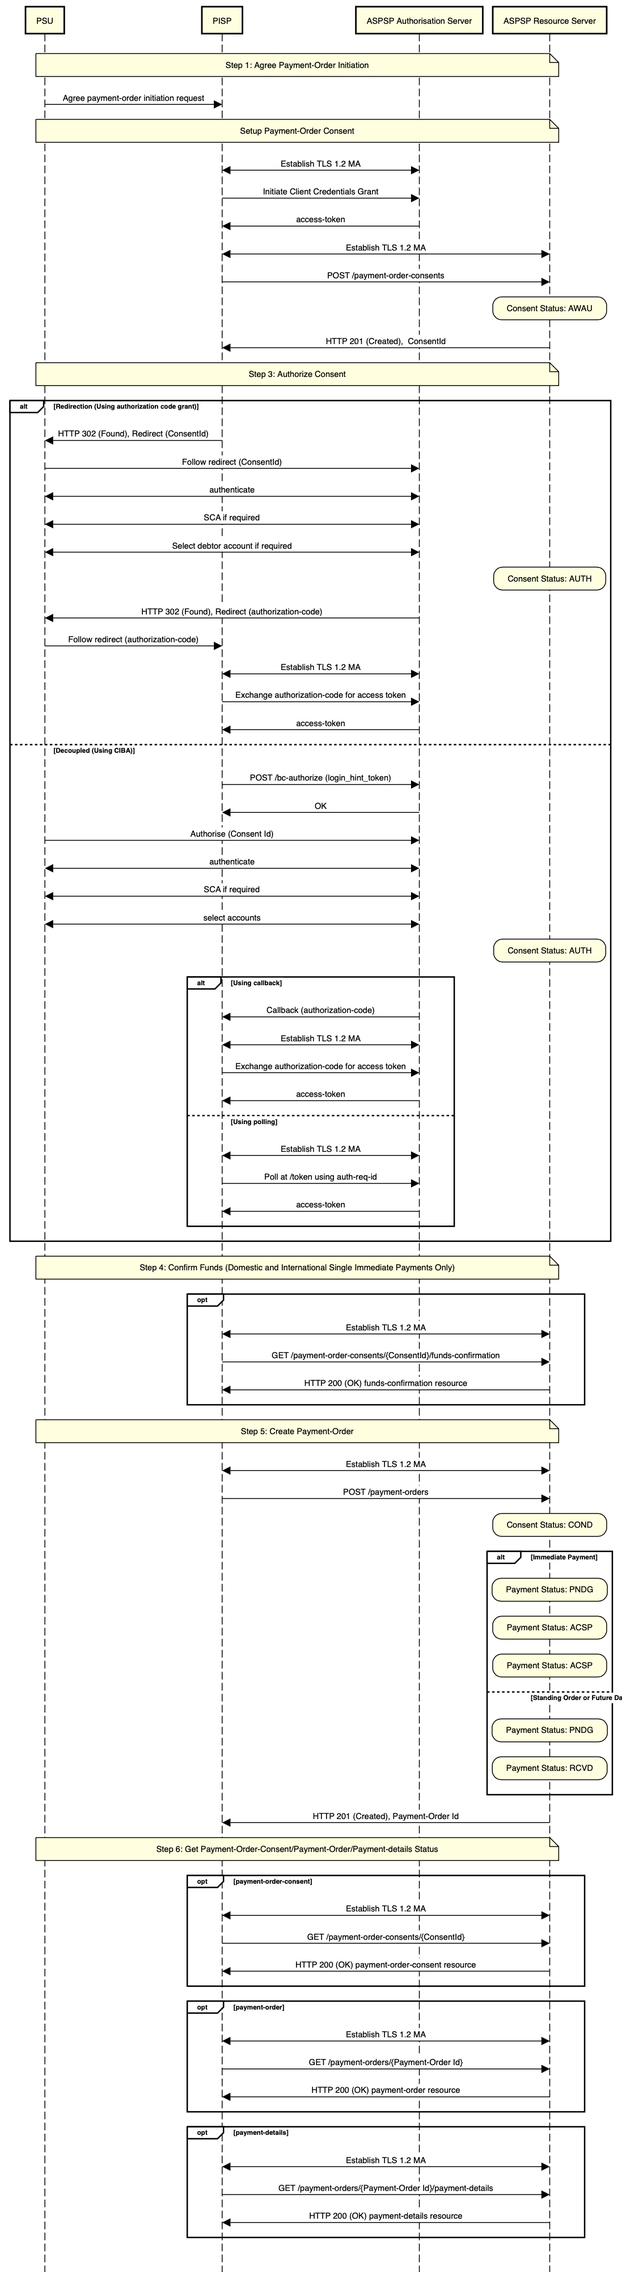
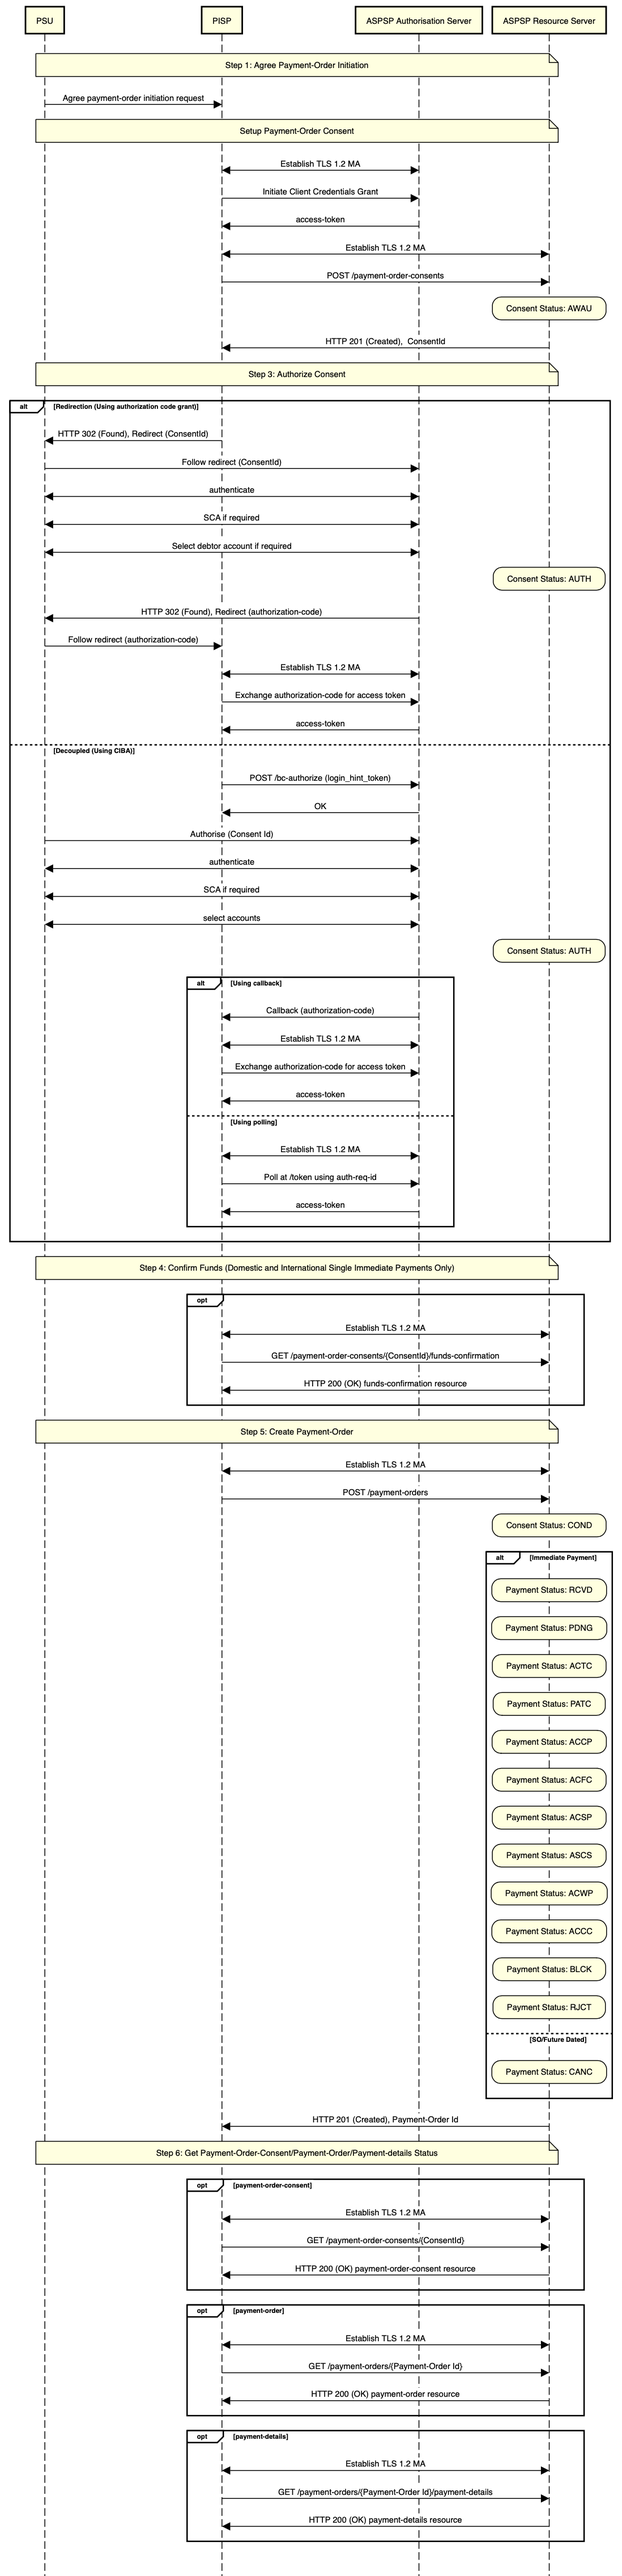
Fixed Payment-Details + Sequence diagram

Changed region(s): [[0.031, 0.0, 0.9918, 0.998], [0.062, 0.2807, 0.217, 0.3743], [0.7129, 0.3743, 0.7438, 0.4366]]

diff --git a/docs/v4.0-draft1/profiles/payment-initiation-api-profile.md b/docs/v4.0-draft1/profiles/payment-initiation-api-profile.md
@@ -53,7 +53,7 @@
     - [OBInternationalRefundAccount1](#obinternationalrefundaccount1)
       - [UML Diagram](#uml-diagram-5)
       - [Data Dictionary](#data-dictionary-6)
-    - [OBWritePaymentDetails1](#obwritepaymentdetails1)
+    - [OBWritePaymentDetailsResponse1](#OBWritePaymentDetailsResponse1)
       - [UML Diagram](#uml-diagram-6)
       - [Data Dictionary](#data-dictionary-7)
     - [OBSCASupportData1](#obscasupportdata1)
@@ -605,7 +605,7 @@ This section describes the OBDomesticRefundAccount1 class which is used in the r
 | Name |Occurrence |XPath |EnhancedDefinition |Class |Codes |Pattern |
 | --- |--- |--- |--- |--- |--- |--- |
 | OBDomesticRefundAccount1 |1..1 |OBDomesticRefundAccount1 |Unambiguous identification of the refund account to which a refund will be made as a result of the transaction. |OBDomesticRefundAccount1 | | |
-| Account |1..1 |OBWritePaymentDetails1/Account |Provides the details to identify an account. |OBCashAccountCreditor3 | | |
+| Account |1..1 |OBDomesticRefundAccount1/Data/Account |Provides the details to identify an account. |OBCashAccountCreditor3 | | |
 | SchemeName |1..1 |OBDomesticRefundAccount1/Account/SchemeName |Name of the identification scheme, in a coded form as published in an external list. |OBExternalAccountIdentification4Code | | |
 | Identification |1..1 |OBDomesticRefundAccount1/Account/Identification |Identification assigned by an institution to identify an account. This identification is known by the account owner. |Max256Text | | |
 | Name |1..1 |OBDomesticRefundAccount1/Account/Name |Name of the account, as assigned by the account servicing institution. Usage: The account name is the name or names of the account owner(s) represented at an account level. The account name is not the product name or the nickname of the account. OB: ASPSPs may carry out name validation for Confirmation of Payee, but it is not mandatory. |Max350Text | | |
@@ -685,30 +685,29 @@ This section describes the OBInternationalRefundAccount1 class which is used in 
 | Proprietary |1..1 |OBInternationalRefundAccount1/Account/Proxy/Proprietary| The owner of the proxy account |MaxText70 | | |
 
 
-#### OBWritePaymentDetails1
+#### OBWritePaymentDetailsResponse1
 
-This section describes the OBWritePaymentDetails1 class which used in the response payloads of payment-detail sub resources.
+This section describes the OBWritePaymentDetailsResponse1 class which used in the response payloads of payment-detail sub resources.
 
 ##### UML Diagram
 
-![](./images/OBWritePaymentDetails1.png)
+![](./images/OBWritePaymentDetailsResponse1.svg)
 
 ##### Data Dictionary
 
 | Name |Occurrence |XPath |EnhancedDefinition |Class |Codes |Pattern |
 | --- |--- |--- |--- |--- |--- |--- |
-| OBWritePaymentDetails1 |1..1 |OBWritePaymentDetails1 |Payment status details. |OBWritePaymentDetails1 | | |
-| PaymentTransactionId |1..1 |OBWritePaymentDetails1/PaymentTransactionId |Unique identifier for the transaction within an servicing institution. This identifier is both unique and immutable. |Max210Text | | |
-| StatusCode |1..1 |OBWritePaymentDetails1/StatusCode |Status of a transfer, as assigned by the transaction administrator. |OBTransactionIndividualExtendedISOStatus1Code |Specifies the status reason in a code form. Values:<br>RCVD<br>PDNG<br>ACTC<br>ACFC<br>ACSP<br>ACSC<br>ACWP<br>ACCC<br>BLCK<br>CANC<br>RJCT| |
-| StatusReason |0..* |OBWritePaymentDetailsResponse1/StatusReason ||OBPaymentStatusReason | | |
-| StatusReasonCode |0..* |OBWritePaymentDetailsResponse1/StatusReason/StatusReasonCode |Specifies the status reason in a code form.<br> For more information and enum values see `ExternalStatusReason1Code`[here](https://github.com/OpenBankingUK/External_Interal_CodeSets) |ExternalStatusReason1Code | | |
-| StatusReasonDescription |0..* |OBWritePaymentDetailsResponse1/StatusReasonDescription |Description supporting the StatusReasonCode|Max500Text | | |
-| StatusUpdateDateTime |1..1 |OBWritePaymentDetails1/StatusUpdateDateTime |Date and time at which the status was assigned to the transfer. |ISODateTime | | |
-| StatusDetail |0..1 |OBWritePaymentDetails1/StatusDetail |Payment status details as per underlying Payment Rail. |OBPaymentStatusDetail1 | | |
-| LocalInstrument |0..1 |OBWritePaymentDetails1/StatusDetail/LocalInstrument |User community specific instrument.<br><br>Usage: This element is used to specify a local instrument, local clearing option and/or further qualify the service or service level. |OBExternalLocalInstrument1Code | | |
-| Status |1..1 |OBWritePaymentDetails1/StatusDetail/Status |Status of a transfer, as assigned by the transaction administrator. |Max128Text | | |
-| StatusReason |0..1 |OBWritePaymentDetails1/StatusDetail/StatusReason |Reason Code provided for the status of a transfer. |OBTransactionIndividualStatusReason1Code |Cancelled<br>PendingFailingSettlement<br>PendingSettlement<br>Proprietary<br>ProprietaryRejection<br>Suspended<br>Unmatched | |
-| StatusReasonDescription |0..1 |OBWritePaymentDetails1/StatusDetail/StatusReasonDescription |Reason provided for the status of a transfer. |Max256Text | | |
+| OBWritePaymentDetailsResponse1 |1..1 |OBWritePaymentDetailsResponse1 |Payment status details. |OBWritePaymentDetailsResponse1 | | |
+| LocalInstrument |0..1 |OBWritePaymentDetailsResponse1/Data/StatusDetail/LocalInstrument |User community specific instrument.<br><br>Usage: This element is used to specify a local instrument, local clearing option and/or further qualify the service or service level. |OBExternalLocalInstrument1Code | | |
+| PaymentTransactionId |1..1 |OBWritePaymentDetailsResponse1/Data/PaymentTransactionId |Unique identifier for the transaction within an servicing institution. This identifier is both unique and immutable. |Max210Text | | |
+| StatusCode |1..1 |OBWritePaymentDetailsResponse1/Data/StatusCode |Status of a transfer, as assigned by the transaction administrator. |OBTransactionIndividualExtendedISOStatus1Code |Specifies the status reason in a code form. Values:<br>RCVD<br>PDNG<br>ACTC<br>ACFC<br>ACSP<br>ACSC<br>ACWP<br>ACCC<br>BLCK<br>CANC<br>RJCT| |
+| StatusUpdateDateTime |1..1 |OBWritePaymentDetailsResponse1/Data/StatusUpdateDateTime |Date and time at which the status was assigned to the transfer. |ISODateTime | | |
+| StatusDetail |0..* |OBWritePaymentDetailsResponse1/Data/StatusDetail |Array of Payment StatusCodes| | | |
+| StatusCode |1..1 |OBWritePaymentDetailsResponse1/Data/StatusDetail/*/StatusCode |Status of a transfer, as assigned by the transaction administrator. |OBTransactionIndividualExtendedISOStatus1Code |Specifies the status reason in a code form. Values:<br>RCVD<br>PDNG<br>ACTC<br>ACFC<br>ACSP<br>ACSC<br>ACWP<br>ACCC<br>BLCK<br>CANC<br>RJCT| |
+| StatusReasonCode |0..1 |OBWritePaymentDetailsResponse1/Data/StatusDetail/*/StatusReasonCode |Specifies the status reason in a code form.<br> For more information and enum values see `ExternalStatusReason1Code`[here](https://github.com/OpenBankingUK/External_Interal_CodeSets) |ExternalStatusReason1Code | | |
+| StatusReasonDescription |0..* |OBWritePaymentDetailsResponse1/Data/StausDetail/*/StatusReasonDescription |Description supporting the StatusReasonCode|Max500Text | | |
+| StatusReasonDescription |0..1 |OBWritePaymentDetailsResponse1/Data/StatusDetail/*/StatusReasonDescription |Reason provided for the status of a transfer. |Max256Text | | |
+| StatusUpdateDateTime |1..1 |OBWritePaymentDetailsResponse1/Data/StatusDetail/*/StatusUpdateDateTime |Date and time at which the status was assigned to the transfer. |ISODateTime | | |
 
 #### OBSCASupportData1
 
@@ -716,16 +715,16 @@ This section describes the OBSCASupportData1 class, which is used across all  _p
 
 ##### UML Diagram
 
-![](./images/OBSCASupportData1.gif)
+![](./images/OBSCASupportData1.svg)
 
 ##### Data Dictionary
 
 | Name |Occurrence |XPath |EnhancedDefinition |Class |Codes |Pattern |
 | --- |--- |--- |--- |--- |--- |--- |
 | OBSCASupportData1 | |SCASupportData |Supporting Data provided by TPP, when requesting SCA Exemption. |OBSCASupportData1 | | |
-| RequestedSCAExemptionType |0..1 |SCASupportData/RequestedSCAExemptionType |This field allows a PISP to request specific SCA Exemption for a Payment Initiation |OBExternalSCAExemptionType1Code |BillPayment<br>ContactlessTravel<br>EcommerceGoods<br>EcommerceServices<br>Kiosk<br>Parking<br>PartyToParty | |
 | AppliedAuthenticationApproach |0..1 |SCASupportData/AppliedAuthenticationApproach |Specifies a character string with a maximum length of 40 characters.<br><br>Usage: This field indicates whether the PSU was subject to SCA performed by the TPP |OBExternalAppliedAuthenticationApproach1Code |CA<br>SCA | |
 | ReferencePaymentOrderId |0..1 |SCASupportData/ReferencePaymentOrderId |If the payment is recurring, then this field is populated with the transaction identifier of the previous payment occurrence so that the ASPSP can verify that the PISP, amount and the payee are the same as the previous occurrence. The value here refers to the payment id e.g. DomesticPaymentId |Max40Text | | |
+| RequestedSCAExemptionType |0..1 |SCASupportData/RequestedSCAExemptionType |This field allows a PISP to request specific SCA Exemption for a Payment Initiation |OBExternalSCAExemptionType1Code |BillPayment<br>ContactlessTravel<br>EcommerceGoods<br>EcommerceServices<br>Kiosk<br>Parking<br>PartyToParty | |
 
 ### Identifier Fields
 

diff --git a/docs/v4.0-draft1/resources-and-data-models/vrp/domestic-vrps.md b/docs/v4.0-draft1/resources-and-data-models/vrp/domestic-vrps.md
@@ -219,15 +219,15 @@ The state model for the `domestic-vrps` resource follows the behavior and defini
 | Name |Path |Definition | Type |
 | ---- |-----|---------- |------|
 | __Data__ (1..1) | `Data`
-| __PaymentStatus__ (0..*) | `Data. PaymentStatus`
-| __PaymentTransactionId__ (1..1) | `Data. PaymentStatus. PaymentTransactionId` |Unique identifier for the transaction within an servicing institution. This identifier is both unique and immutable. |Max210Text|
-| __LocalInstrument__ (0..1) | `Data. PaymentStatus. LocalInstrument` |User community specific instrument.  Usage: This element is used to specify a local instrument, local clearing option and/or further qualify the service or service level. |OBExternalLocalInstrument1Code|
-| __StatusCode__ (1..1) |`Data. PaymentStatus. StatusCode` |Status of a transfer, as assigned by the transaction administrator. |OBTransactionIndividualExtendedISOStatus1Code |Specifies the status reason in a code form. Values:<br>RCVD<br>PDNG<br>ACTC<br>ACFC<br>ACSP<br>ACSC<br>ACWP<br>ACCC<br>BLCK<br>CANC<br>RJCT| Max4Text|
-| __StatusDetail__ (0..1) | `Data. PaymentStatus. StatusDetail` |Payment status details as per underlying Payment Rail.
-| __StatusCode__ (1..1) | `Data. PaymentStatus. StatusDetail. StatusCode` |Status of a transfer, as assigned by the transaction administrator. |Max128Text|
-| __StatusReasonCode__ (0..1) | `Data. PaymentStatus. StatusDetail. StatusReason` |Reason code for the Status Code update| Enum ([See External codeset list](https://github.com/OpenBankingUK/External_Interal_CodeSets))|
-| __StatusReasonDescription__ (0..1) | `Data. PaymentStatus. StatusDetail. StatusReasonDescription` |Reason provided for the status of a transfer. |Max256Text
-| __StatusUpdateDateTime__ (1..1)       | `Data. PaymentStatus. StatusDetail. StatusUpdateDateTime`       | Date and time at which the resource StatusCode was updated.                                                                                                                                                      | ISODateTime                                                                                                                       |
+| __LocalInstrument__ (0..1) | `Data. LocalInstrument` |User community specific instrument.  Usage: This element is used to specify a local instrument, local clearing option and/or further qualify the service or service level. |OBExternalLocalInstrument1Code|
+| __PaymentTransactionId__ (1..1) | `Data. PaymentTransactionId` |Unique identifier for the transaction within an servicing institution. This identifier is both unique and immutable. |Max210Text|
+| __StatusCode__ (1..1) |`Data. StatusCode` |Status of a transfer, as assigned by the transaction administrator. |Values:<br>RCVD<br>PDNG<br>ACTC<br>ACFC<br>ACSP<br>ACSC<br>ACWP<br>ACCC<br>BLCK<br>CANC<br>RJCT<br><br>([See External codeset list](https://github.com/OpenBankingUK/External_Interal_CodeSets))| Max4Text|
+| __StatusUpdateDateTime__ (1..1)       | `Data. StatusUpdateDateTime`       | Date and time at which the resource StatusCode was updated. | ISODateTime |
+| __StatusDetail__ (0..*) | `Data. StatusDetail` |Array of StatusCodes| Array|
+| __StatusCode__ (1..1) | `Data. StatusDetail. StatusCode` |Status of a transfer, as assigned by the transaction administrator. |Max4Text|
+| __StatusReasonCode__ (0..1) | `Data. StatusDetail. StatusReason` |Reason code for the Status Code update| Enum ([See External codeset list](https://github.com/OpenBankingUK/External_Interal_CodeSets))|
+| __StatusReasonDescription__ (0..1) | `Data. StatusDetail. StatusReasonDescription` |Reason provided for the status of a transfer. |Max256Text |
+| __StatusUpdateDateTime__ (1..1)       | `Data. StatusDetail. StatusUpdateDateTime`       | Date and time at which the resource StatusCode was updated. | ISODateTime |
 
 ## Usage Examples
 

diff --git a/docs/v4.0-draft1/resources-and-data-models/pisp/domestic-payments.md b/docs/v4.0-draft1/resources-and-data-models/pisp/domestic-payments.md
@@ -3,7 +3,6 @@
 - [Overview](#overview)
 - [Endpoints](#endpoints)
   - [POST /domestic-payments](#post-domestic-payments)
-    - [StatusCode](#statuscode)
   - [GET /domestic-payments/{DomesticPaymentId}](#get-domestic-payments-domesticpaymentid)
     - [StatusCode](#statuscode-2)
   - [GET /domestic-payments/{DomesticPaymentId}/payment-details](#get-domestic-payments-domesticpaymentid-payment-details)

diff --git a/docs/v4.0-draft1/profiles/file-payments-api-profile.md b/docs/v4.0-draft1/profiles/file-payments-api-profile.md
@@ -66,7 +66,7 @@ Step 5: Get Consent/Payment-Order/Payment-Details Status:
 
 #### Sequence Diagram
 
-![File Payment Initiation - High Level Flow](./images/FilePaymentStatusv4-draft7.png)
+![File Payment Initiation - High Level Flow](./images/FilePaymentStatusv4-draft8.png)
 
 <details>
    <Summary>Diagram source</Summary>
